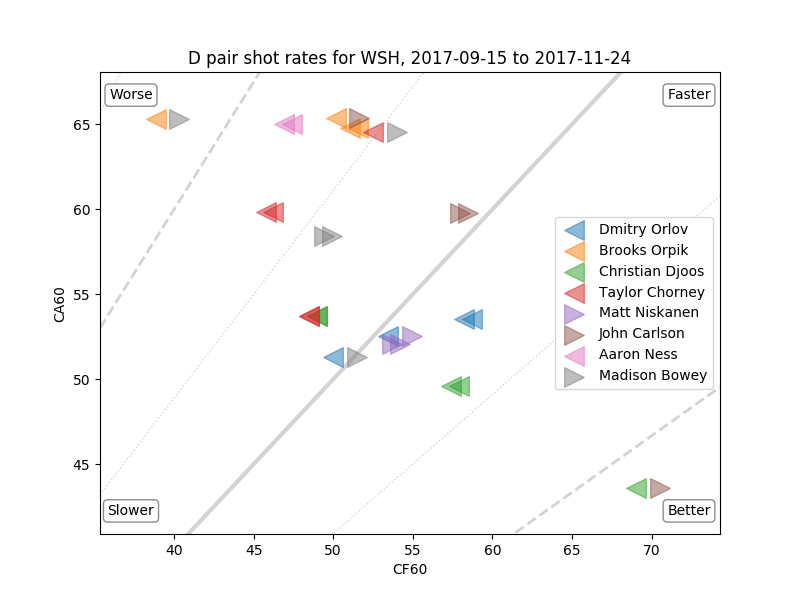
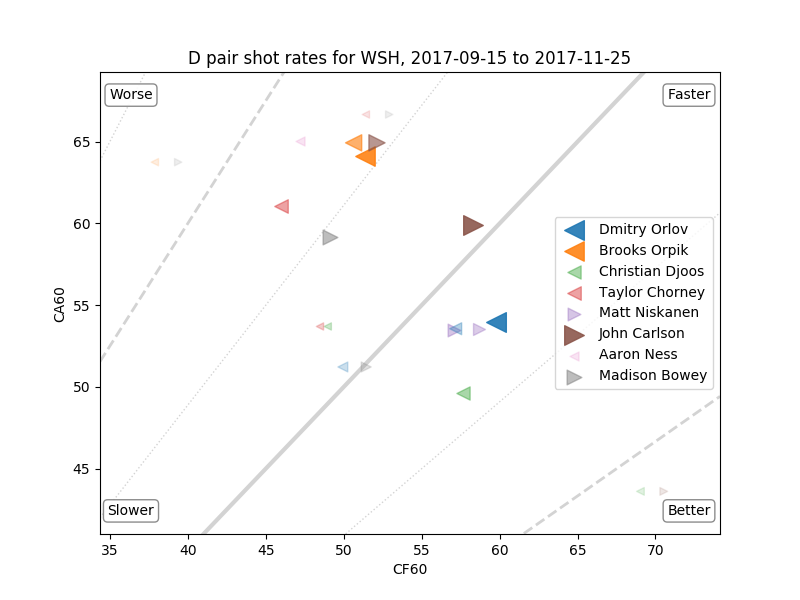
Added color change support to dpairs and edited hex_to_rgb

diff --git a/scrapenhl2/plot/defense_pairs.py b/scrapenhl2/plot/defense_pairs.py
@@ -4,6 +4,7 @@ This module contains methods for creating a scatterplot of team defense pair sho
 
 import pandas as pd
 import matplotlib.pyplot as plt
+import matplotlib.colors as mplc
 
 import scrapenhl2.plot.visualization_helper as vhelper
 from scrapenhl2.scrape import schedules, team_info, teams, players
@@ -12,7 +13,7 @@ import scrapenhl2.manipulate.manipulate as manip
 
 def team_dpair_shot_rates_scatter(team, min_pair_toi=50, **kwargs):
     """
-    Creates a scatterplot of team defense pair
+    Creates a scatterplot of team defense pair shot attempr rates.
 
     :param team: int or str, team
     :param min_pair_toi: int, number of minutes for pair to qualify
@@ -25,22 +26,38 @@ def team_dpair_shot_rates_scatter(team, min_pair_toi=50, **kwargs):
 
     startdate, enddate = vhelper.get_startdate_enddate_from_kwargs(**kwargs)
     rates = get_dpair_shot_rates(team, startdate, enddate)
-
     pairs = drop_duplicate_pairs(rates).query('TOI >= {0:d}'.format(60 * min_pair_toi))
-
     xy = _add_xy_names_for_dpair_graph(pairs)
 
     fig = plt.figure(figsize=[8, 6])
     ax = plt.gca()
 
+    xy = _get_point_sizes_for_dpair_scatter(xy)
+    xy = _get_colors_for_dpair_scatter(xy)
+
+    # First plot players on their own
     for name in xy.Name.unique():
-        temp = xy.query('Name == "{0:s}"'.format(name))
+        # Get first two rows, which are this player adjusted a bit. Take average
+        temp = xy.query('Name == "{0:s}"'.format(name)).sort_values('TOI', ascending=False) \
+            .iloc[:2, :] \
+            .groupby(['Name', 'PlayerID', 'Color'], as_index=False).mean()
         if players.get_player_handedness(temp.PlayerID.iloc[0]) == 'L':
             marker = '<'
         else:
             marker = '>'
-        # TODO alpha or size based on TOI?
-        ax.scatter(temp.X.values, temp.Y.values, label=name, alpha=0.5, marker=marker, s=200)
+        ax.scatter(temp.X.values, temp.Y.values, label=name, marker=marker,
+                   s=temp.Size.values, c=temp.Color.values)
+
+    # Now plot pairs
+    for name in xy.Name.unique():
+        temp = xy.query('Name == "{0:s}"'.format(name)).sort_values('TOI', ascending=False).iloc[2:, :]
+        if len(temp) == 0:
+            continue
+        if players.get_player_handedness(temp.PlayerID.iloc[0]) == 'L':
+            marker = '<'
+        else:
+            marker = '>'
+        ax.scatter(temp.X.values, temp.Y.values, marker=marker, s=temp.Size.values, c=temp.Color.values)
 
     ax.set_xlabel('CF60')
     ax.set_ylabel('CA60')
@@ -51,6 +68,48 @@ def team_dpair_shot_rates_scatter(team, min_pair_toi=50, **kwargs):
     ax.set_title(', '.join(vhelper.generic_5v5_log_graph_title('D pair shot rates', **kwargs)))
 
     return vhelper.savefilehelper(**kwargs)
+
+
+def _get_colors_for_dpair_scatter(df):
+    """
+    A helper method that scales scatterpoint alphas corresponding to TOI column. The largest point gets an alpha of 0.9;
+    others get smaller linearly. Follows current matplotlib color cycle, turning RGB into RGBA.
+
+    :param df: dataframe with TOI column
+
+    :return: df with an extra column Color.
+    """
+
+    largest = df.TOI.max()
+
+    color_cycle = plt.rcParams['axes.prop_cycle'].by_key()['color']
+
+    def get_adjusted_color(base, largesttoi, thistoi):
+        newcolor = mplc.to_rgba(base, alpha=thistoi / largesttoi * 0.9)
+        return newcolor
+
+    dflst = []
+    for i, name in enumerate(df.Name.unique()):
+        color = vhelper.hex_to_rgb(color_cycle[i], maxval=1)
+        temp = df.query('Name == "{0:s}"'.format(name))
+        temp.loc[:, 'Color'] = temp.TOI.apply(lambda x: get_adjusted_color(color, largest, x))
+        dflst.append(temp)
+    return pd.concat(dflst)
+
+
+def _get_point_sizes_for_dpair_scatter(df):
+    """
+    A helper method that scales scatterpoint sizes corresponding to TOI column. The largest point gets a size of 200;
+    others get smaller linearly.
+
+    :param df: dataframe with TOI column
+
+    :return: df with an extra column Size that can be used in matplotlib as the kwarg 's'
+    """
+
+    largest = df.TOI.max()
+    df.loc[:, 'Size'] = df.TOI / largest * 200
+    return df
 
 
 def _add_xy_names_for_dpair_graph(df, delta_small=0.25, delta_large=0.75):

diff --git a/scrapenhl2/plot/visualization_helper.py b/scrapenhl2/plot/visualization_helper.py
@@ -27,11 +27,11 @@ def format_number_with_plus(stringnum):
         return '+' + str(stringnum)
 
 
-def hex_to_rgb(value):
+def hex_to_rgb(value, maxval=256):
     """Return (red, green, blue) for the hex color given as #rrggbb."""
     value = value.lstrip('#')
     lv = len(value)
-    return tuple(int(value[i:i + lv // 3], 16) for i in range(0, lv, lv // 3))
+    return tuple(int(value[i:i + lv // 3], 16)/256*maxval for i in range(0, lv, lv // 3))
 
 
 def rgb_to_hex(red, green, blue):
